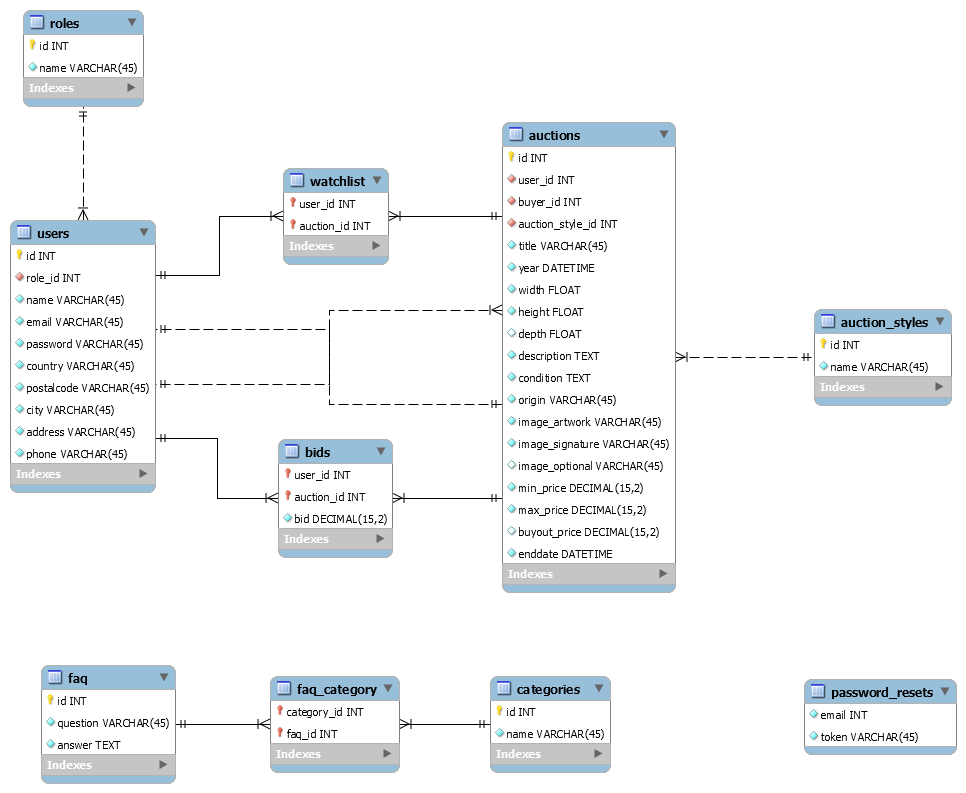
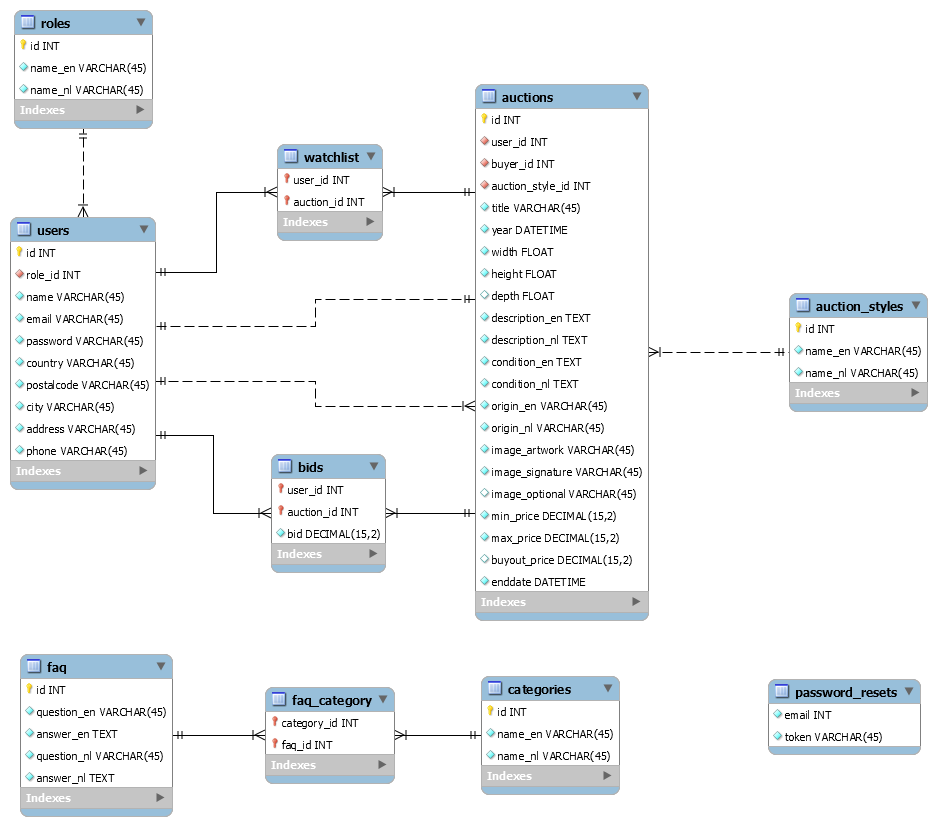
updated database-model and migrations to support multiple locales (en / nl)

diff --git a/code/database/migrations/2015_12_17_002334_create_auctions_table.php b/code/database/migrations/2015_12_17_002334_create_auctions_table.php
@@ -22,9 +22,12 @@ class CreateAuctionsTable extends Migration
             $table->float('width');
             $table->float('height');
             $table->float('depth');
-            $table->text('description');
-            $table->text('condition');
-            $table->string('origin');
+            $table->text('description_en');
+            $table->text('description_nl');
+            $table->text('condition_en');
+            $table->text('condition_nl');
+            $table->string('origin_en');
+            $table->string('origin_nl');
             $table->string('image_artwork');
             $table->string('image_signature');
             $table->string('image_optional');

diff --git a/code/database/migrations/2015_12_17_002448_create_faq_table.php b/code/database/migrations/2015_12_17_002448_create_faq_table.php
@@ -14,8 +14,10 @@ class CreateFaqTable extends Migration
     {
         Schema::create('faq', function (Blueprint $table) {
             $table->increments('id');
-            $table->string('question');
-            $table->text('answer');
+            $table->string('question_en');
+            $table->string('question_nl');
+            $table->text('answer_en');
+            $table->text('answer_nl');
             $table->softDeletes();
             $table->timestamps();
         });

diff --git a/code/database/migrations/2015_12_17_002428_create_auction_styles_table.php b/code/database/migrations/2015_12_17_002428_create_auction_styles_table.php
@@ -14,7 +14,8 @@ class CreateAuctionStylesTable extends Migration
     {
         Schema::create('auction_styles', function (Blueprint $table) {
             $table->increments('id');
-            $table->string('name');
+            $table->string('name_en');
+            $table->string('name_nl');
             $table->softDeletes();
             $table->timestamps();
         });

diff --git a/code/database/migrations/2015_12_17_002502_create_categories_table.php b/code/database/migrations/2015_12_17_002502_create_categories_table.php
@@ -14,7 +14,8 @@ class CreateCategoriesTable extends Migration
     {
         Schema::create('categories', function (Blueprint $table) {
             $table->increments('id');
-            $table->string('name');
+            $table->string('name_en');
+            $table->string('name_nl');
             $table->softDeletes();
             $table->timestamps();
         });

diff --git a/code/database/migrations/2015_12_17_002321_create_roles_table.php b/code/database/migrations/2015_12_17_002321_create_roles_table.php
@@ -14,7 +14,8 @@ class CreateRolesTable extends Migration
     {
         Schema::create('roles', function (Blueprint $table) {
             $table->increments('id');
-            $table->string('name');
+            $table->string('name_en');
+            $table->string('name_nl');
             $table->timestamps();
         });
     }
